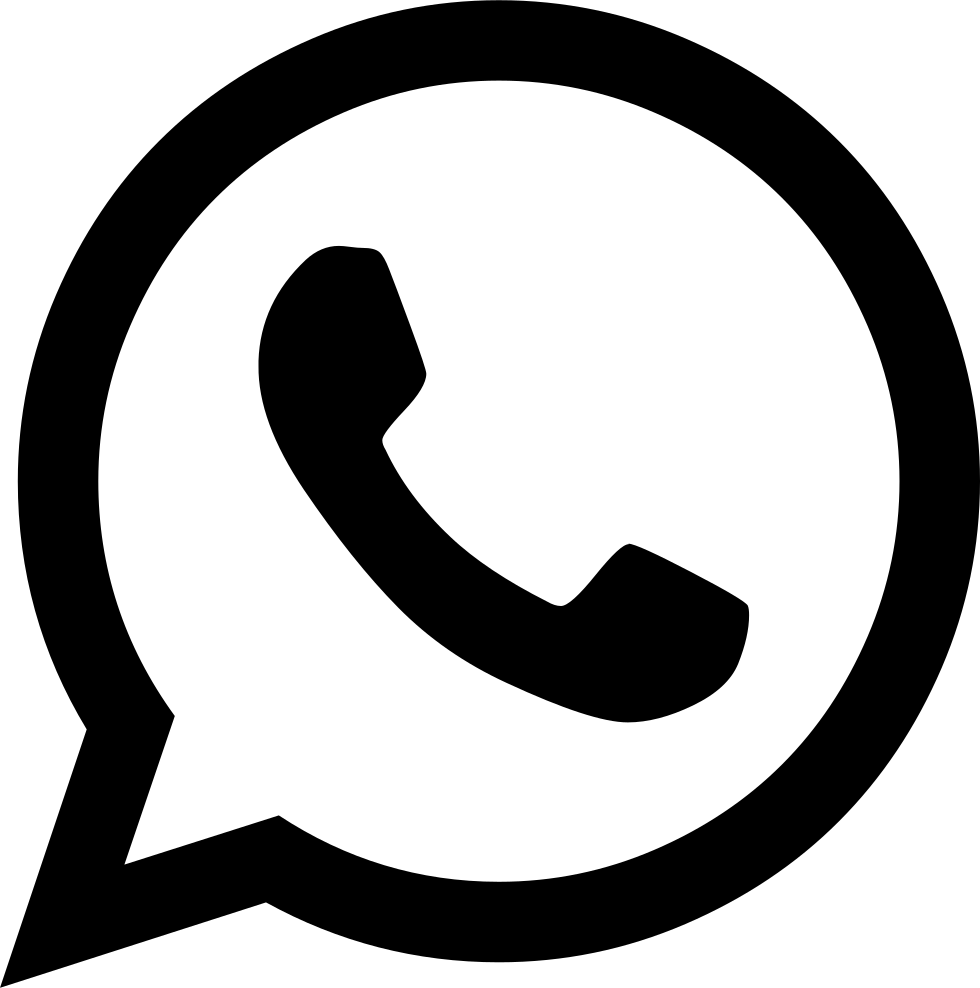
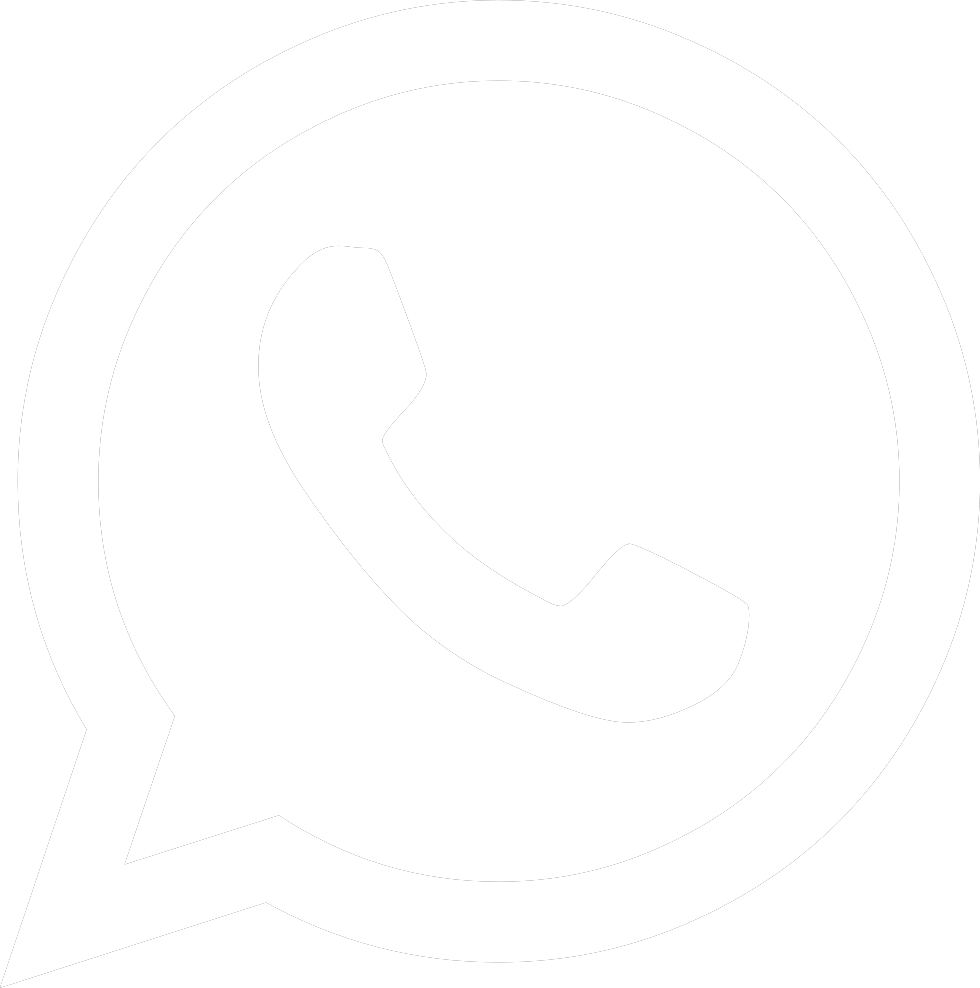
Solicitações adicionais

diff --git a/index.html b/index.html
@@ -216,9 +216,9 @@
 <!-- Sessão Quem Somos -->
 <section id="quemSomos" class="quem-somos container-fluid py-5 ">
     <div class="container">
-        <h2 class="fw-bold mb-4">Quem Somos</h2>
+        <h2 class="fw-bold mb-4 text-center">Quem Somos</h2>
         <p>
-            Desde 2015, a <strong>Original Produtos</strong> é referência na produção de palitos, espetos e hashis de bambu de alta qualidade. 
+            A <strong>Original Produtos</strong> é referência na produção de palitos, espetos e hashis de bambu de alta qualidade. 
             Trabalhamos com dedicação para oferecer soluções práticas e sustentáveis, alinhando tradição à inovação em cada etapa do processo produtivo.
         </p>
         <p>

diff --git a/css/estilo.css b/css/estilo.css
@@ -117,7 +117,7 @@ section, .carousel-inner {
     position: fixed;
     bottom: 50px;
     right: 40px;
-    background-color: #ffffff;
+    background-color: #048b36;
     border-radius: 50%;
     padding: 15px;
     z-index: 100;
